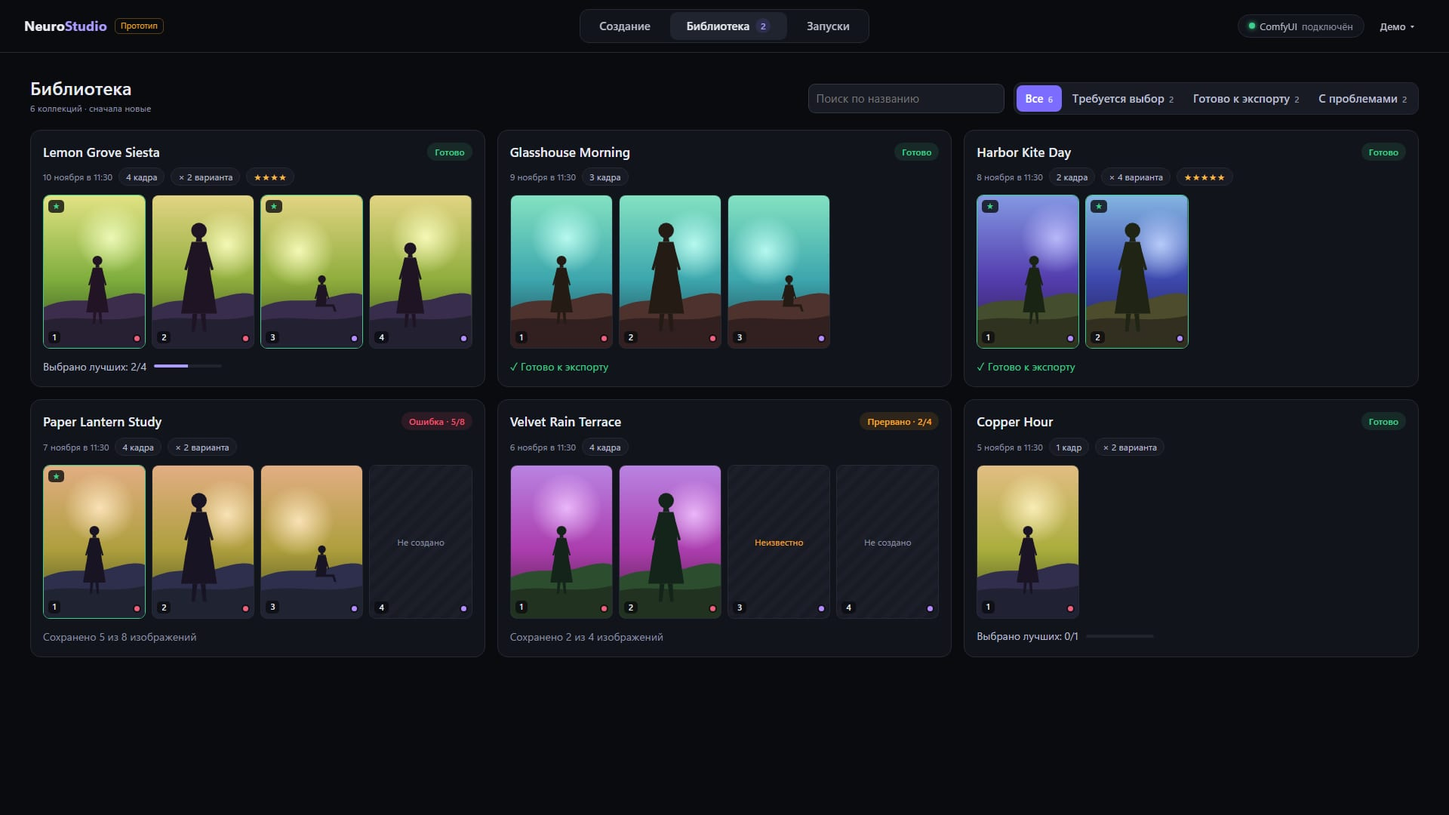
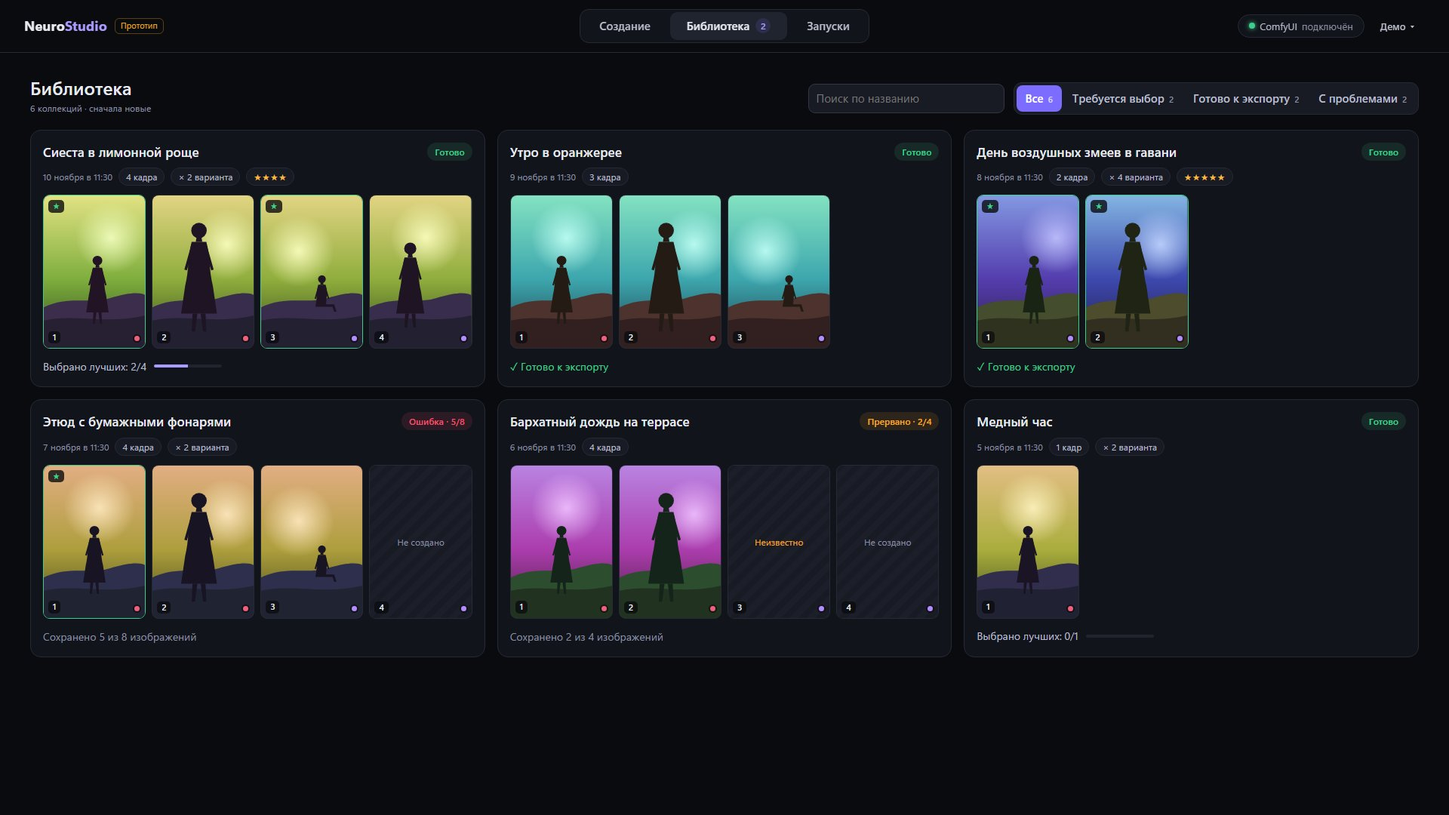
NS-013: Russian mock data, metadata-language and error-code decisions, refreshed screenshots

diff --git a/web/prototype/src/mock.ts b/web/prototype/src/mock.ts
@@ -82,17 +82,17 @@ export function mockCollections(): ProtoCollection[] {
   return [
     makeCollection({
       id: "2026-11-10-lemon-grove-siesta",
-      title: "Lemon Grove Siesta",
-      description: "A slow Mediterranean afternoon between citrus trees, linen and sun-warmed stone.",
+      title: "Сиеста в лимонной роще",
+      description: "Неспешный средиземноморский день среди цитрусовых деревьев, льна и нагретого солнцем камня.",
       daysAgo: 0,
       hue: 42,
       frames: 4,
       variations: 2,
       summaries: [
-        "Walking between rows of lemon trees, basket on her arm, seen from eye level.",
-        "Sitting on a low stone wall, turning towards the light, waist-up.",
-        "Reclining on a striped blanket in dappled shade, seen slightly from above.",
-        "Leaning on a wooden gate at the end of the grove, full body, warm backlight.",
+        "Идёт между рядами лимонных деревьев с корзиной на руке, вид на уровне глаз.",
+        "Сидит на низкой каменной ограде, повернувшись к свету, по пояс.",
+        "Лежит на полосатом пледе в пятнистой тени, вид чуть сверху.",
+        "Опирается на деревянную калитку в конце рощи, в полный рост, тёплый контровой свет.",
       ],
       status: "done",
       selections: { "1": 2, "3": 1 },
@@ -103,50 +103,50 @@ export function mockCollections(): ProtoCollection[] {
     }),
     makeCollection({
       id: "2026-11-09-glasshouse-morning",
-      title: "Glasshouse Morning",
-      description: "Botanical glasshouse at opening hour; fogged panes, ferns and pale green light.",
+      title: "Утро в оранжерее",
+      description: "Ботаническая оранжерея в час открытия: запотевшие стёкла, папоротники и бледно-зелёный свет.",
       daysAgo: 1,
       hue: 150,
       frames: 3,
       variations: 1,
       summaries: [
-        "Standing among tall ferns, front three-quarter view, chest-up.",
-        "Kneeling by a potting table, hands in soil, side profile.",
-        "Walking down the central aisle away from the viewer, wide environmental composition.",
+        "Стоит среди высоких папоротников, ракурс три четверти спереди, по грудь.",
+        "Склонилась у стола для рассады, руки в земле, вид сбоку.",
+        "Идёт по центральному проходу от зрителя, широкий кадр с окружением.",
       ],
       status: "done",
       theme: null,
     }),
     makeCollection({
       id: "2026-11-08-harbor-kite-day",
-      title: "Harbor Kite Day",
-      description: "Windy seaside promenade, bright kites and salt air.",
+      title: "День воздушных змеев в гавани",
+      description: "Ветреная набережная, яркие воздушные змеи и солёный воздух.",
       daysAgo: 2,
       hue: 200,
       frames: 2,
       variations: 4,
       models: ["duskrose", "duskrose"],
-      summaries: ["Holding a kite string against a blue sky, low angle, full body.", "Laughing with wind in her hair, head and shoulders."],
+      summaries: ["Держит нить воздушного змея на фоне синего неба, низкий ракурс, в полный рост.", "Смеётся, ветер треплет волосы, голова и плечи."],
       status: "done",
       selections: { "1": 3, "2": 1 },
-      feedback: { rating: 5, tags: ["beautiful_heroine", "good_composition"], note: "Strong sky; v3 of scene 1 is the keeper." },
+      feedback: { rating: 5, tags: ["beautiful_heroine", "good_composition"], note: "Сильное небо; вариант 3 в кадре 1 — лучший." },
       theme: "ветреный день у моря",
       codex: [null, "medium"],
       composition: [{ viewpoint: "low_angle", framing: "full_body" }, { framing: "head_and_shoulders" }],
     }),
     makeCollection({
       id: "2026-11-07-paper-lantern-study",
-      title: "Paper Lantern Study",
-      description: "A calligraphy studio lit by paper lanterns at dusk.",
+      title: "Этюд с бумажными фонарями",
+      description: "Каллиграфическая студия в сумерках, освещённая бумажными фонарями.",
       daysAgo: 3,
       hue: 18,
       frames: 4,
       variations: 2,
       summaries: [
-        "Sitting at a low desk, brush in hand, seen from above.",
-        "Hanging a lantern, arms raised, rear three-quarter view.",
-        "Kneeling by an open screen door, garden behind her.",
-        "Standing in the doorway, silhouette against lantern light.",
+        "Сидит за низким столом с кистью в руке, вид сверху.",
+        "Вешает фонарь, руки подняты, ракурс три четверти сзади.",
+        "Опустилась на колени у открытой сёдзи, позади сад.",
+        "Стоит в дверном проёме, силуэт на фоне света фонарей.",
       ],
       status: "failed",
       states: ["done", "done", "done", "done", "done", "failed", "pending", "pending"],
@@ -156,30 +156,30 @@ export function mockCollections(): ProtoCollection[] {
     }),
     makeCollection({
       id: "2026-11-06-velvet-rain-terrace",
-      title: "Velvet Rain Terrace",
-      description: "Rooftop terrace during a warm summer rain, velvet dress and city haze.",
+      title: "Бархатный дождь на террасе",
+      description: "Терраса на крыше под тёплым летним дождём, бархатное платье и городская дымка.",
       daysAgo: 4,
       hue: 265,
       frames: 4,
       variations: 1,
       summaries: [
-        "Under a striped awning watching the rain, side profile.",
-        "Stepping into the rain with open palms, low angle.",
-        "Leaning on the wet railing, city behind, over-the-shoulder view.",
-        "Sitting on a bench with a towel around her shoulders.",
+        "Под полосатым навесом смотрит на дождь, вид сбоку.",
+        "Выходит под дождь с раскрытыми ладонями, низкий ракурс.",
+        "Опирается на мокрые перила, позади город, взгляд через плечо.",
+        "Сидит на скамье, плечи укутаны полотенцем.",
       ],
       status: "interrupted",
       states: ["done", "done", "timeout", "pending"],
     }),
     makeCollection({
       id: "2026-11-05-copper-hour",
-      title: "Copper Hour",
-      description: "One portrait in late copper sunlight on an old tram platform.",
+      title: "Медный час",
+      description: "Один портрет в медном свете позднего солнца на старой трамвайной платформе.",
       daysAgo: 5,
       hue: 28,
       frames: 1,
       variations: 2,
-      summaries: ["Waiting on the platform, face close-up, warm rim light."],
+      summaries: ["Ждёт на платформе, крупный план лица, тёплый контровой свет."],
       status: "done",
       theme: "один портрет, трамвайная платформа",
       codex: ["codex-model-b", "low"],

diff --git a/web/prototype/src/store.ts b/web/prototype/src/store.ts
@@ -131,7 +131,7 @@ export const run = reactive({
 
 export const running = computed(() => run.status === "planning" || run.status === "generating");
 
-const TITLES = ["Morning Ferry", "Orchard Ladder", "Blue Hour Laundry", "Salt Flat Picnic", "Library Ladder Noon", "Greenhouse Rain"];
+const TITLES = ["Утренний паром", "Лестница в саду", "Бельё в синий час", "Пикник на солончаке", "Полдень в библиотеке", "Дождь в теплице"];
 let timer: number | undefined;
 let titleOffset = 0;
 /** Demo presets fast-forward the simulation synchronously up to `stopAt` finished images. */
@@ -186,13 +186,13 @@ function beginCollection(i: number) {
   const c = makeCollection({
     id: `demo-${Date.now().toString(36)}-${i + 1}`,
     title: it.title,
-    description: "Demo collection from the simulated run (placeholder artwork).",
+    description: "Демо-коллекция из имитированного запуска (условные изображения).",
     daysAgo: 0,
     hue: (titleOffset * 47 + i * 83) % 360,
     frames: snap.frames,
     variations: snap.variations,
     models: snap.models,
-    summaries: Array.from({ length: snap.frames }, (_, k) => `Shot brief for scene ${k + 1} (demo).`),
+    summaries: Array.from({ length: snap.frames }, (_, k) => `Краткое описание кадра ${k + 1} (демо).`),
     status: "running",
     states: Array.from({ length: snap.frames * snap.variations }, () => "pending"),
     theme: snap.theme || null,

diff --git a/docs/ns-013-ux-design.md b/docs/ns-013-ux-design.md
@@ -30,7 +30,33 @@ Sections 1–14 were written before NS-013A and name UI elements in English; the
 - Технические id не меняются: интерфейс показывает «Сидя на стуле», в запрос уходит `sitting_on_a_chair` (`OPTION_RU` — справочник подписей поверх каталога `src/composition.ts`; тест проверяет, что у каждого id есть подпись). Теги оценки хранятся с теми же id, что в NS-010.
 - Не переводятся названия продуктов и моделей: NeuroStudio, Codex, ComfyUI, Crimson Oath, Duskrose; технические термины seed, prompt_id, PNG, ZIP.
 - Промпты для генерации остаются на английском (это сказано и в интерфейсе, в блоке «Генерация промптов»).
-- Тексты, которые генерирует Codex (название и описание концепции, краткие описания кадров), в прототипе остаются английскими, как в реальных данных. Нужно ли получать их на русском — открытый вопрос (раздел 14).
+- Демонстрационные данные прототипа (названия и описания коллекций, краткие описания кадров) написаны по-русски; технические id и имена моделей не менялись. Решение по метаданным реальных коллекций — см. «Язык метаданных Codex» ниже.
+
+### Язык метаданных Codex (решение, для NS-014)
+
+- Codex создаёт **английские positive prompts** (как сейчас).
+- Для интерфейса Codex дополнительно создаёт `titleRu`, `descriptionRu` и `summaryRu` (по одному `summaryRu` на кадр).
+- Оригинальный `title` сохраняется для совместимости; `description` и краткие описания кадров — тоже.
+- Русские метаданные создаются **в том же единственном вызове Codex на партию**. Отдельных запросов на перевод нет.
+- Старые коллекции без русских полей показывают исходные тексты.
+- Реальная схема Prompt Plan в NS-013 не менялась; поля добавляются в NS-014 (аддитивно, необязательные при чтении старых планов).
+
+### Ошибки (решение, для NS-014 / NS-015)
+
+- Сервер возвращает **стабильные коды ошибок** (например `COMFY_UNREACHABLE`, `COMFY_OUT_OF_MEMORY`, `CODEX_FAILED`, `PLAN_INVALID`, `EXPORT_INCOMPLETE`) и параметры.
+- Пользовательское сообщение на русском формирует UI по коду.
+- Технические подробности (исходный текст ошибки, CUDA, узел ComfyUI, prompt_id) доступны по раскрывающейся ссылке «Технические подробности» и показываются как есть.
+- Существующий API в NS-013 не менялся.
+
+### Утверждённые решения NS-013 (финальное согласование)
+
+1. Архитектура «Создание / Библиотека / Запуски».
+2. Только десктоп: 2560 × 1440 и 1920 × 1080.
+3. Русский интерфейс без переключателя языка.
+4. Auto Mix, Custom Per Scene, Composition Controls и текущая структура Advanced Settings.
+5. Два набора коллекций по умолчанию.
+6. Без Retry/Resume.
+7. Во время генерации форму можно редактировать, но текущая генерация использует снимок настроек на момент старта.
 
 ### Утверждённая терминология
 
@@ -62,7 +88,7 @@ Sections 1–14 were written before NS-013A and name UI elements in English; the
 ### Рекомендации для NS-014 / NS-015
 
 1. Перенести `ru.ts` (подписи, `ruPlural`, `ofImages`, форматирование дат) в `web/src` как есть; новые строки сразу писать по-русски. Тест полноты `OPTION_RU` сохранить: новая опция в каталоге без русской подписи должна ронять тесты.
-2. Сообщения сервера, которые видит пользователь (`exportStatus.message`, ошибки валидации, `RunError`, «ComfyUI is not reachable…»), сейчас английские. Рекомендация: сервер отдаёт код и параметры, русский текст формирует UI; технические детали (CUDA, имена узлов ComfyUI) показываются как есть.
+2. Сообщения сервера, которые видит пользователь (`exportStatus.message`, ошибки валидации, `RunError`, «ComfyUI is not reachable…»), сейчас английские. Решение: сервер отдаёт стабильный код и параметры, русский текст формирует UI, технические детали доступны отдельно (см. «Ошибки» выше).
 3. Не добавлять мобильные брейкпоинты; каждую новую страницу проверять на 2560 × 1440 и 1920 × 1080. Скриншоты для приёмки — headless Chrome на этих размерах; в прототипе для этого есть пресеты в URL: `#create`, `#advanced`, `#custom`, `#library`, `#collection`, `#activity-generating`, `#activity-failed`.
 4. При переносе экранов в рабочее приложение сохранить ограничения ширины (2240 / 1880 px), колонки библиотеки и минимальную ширину селектов 260 px.
 5. Промпты, схема Prompt Plan и Creative Director остаются на английском; русификация касается только интерфейса.
@@ -188,7 +214,7 @@ Rules:
 
 - **Current run card**: status title (Planning the batch / Generating images / Run completed / Run stopped), start time and the formula, `done / total`, overall bar, and four steps: *ComfyUI check → Planning with Codex (one call for all collections) → Generating images (collection i of n · scene s · vK) → Saved to Library*.
 - **Per-collection rows**: title (or "Concept is being written…" while planning), bar, `6/8`, state (Waiting, Generating, Saved, Stopped · partial, Not started), *Open* in Library.
-- **Failure**: the error, what was saved (`1 complete collection, plus 1 of 8 images of "Greenhouse Rain"`), and explicitly: *Nothing is resumed or resubmitted automatically. Review what was saved in the Library and start a new run when ready.* On ComfyUI loss: an accepted image may still finish in ComfyUI — see its prompt_id on the collection. There is no Retry/Resume button on purpose.
+- **Failure**: the error, what was saved (`1 complete collection, plus 1 of 8 images of "Дождь в теплице"`), and explicitly: *Nothing is resumed or resubmitted automatically. Review what was saved in the Library and start a new run when ready.* On ComfyUI loss: an accepted image may still finish in ComfyUI — see its prompt_id on the collection. There is no Retry/Resume button on purpose.
 - **Side**: ComfyUI status (connected/version/queue, or what to do when unreachable) and the run's settings snapshot (theme, models per scene, Codex, composition per scene).
 - **Recent runs**: status, theme, formula, error line, links to the collections the run produced. (Source in NS-014: `output/batches/*/batch-plan.json`, which already exists.)
 
@@ -239,8 +265,11 @@ Rules:
 6. **Runner / collection**: `FRAMES` from the request; manifest gets `frames` and per-frame model (already per frame); old manifests default to 4.
 7. **Library backend**: `chooseScenes`/`exportStatus`/selections/`selectBest` use the manifest frame count; add `frameCount` + generation metadata (`theme`, codex, composition, models) to `CollectionView`; add `GET /api/runs` from `batch-plan.json`.
 8. **Composition**: `SCENES` → request frame count; `parseComposition` accepts ≤ frames.
-9. **UI**: replace `web/src` views with the prototype structure (Create / Library / Activity, header pill), wire to the API; keep `localStorage` only for UI preferences (Codex choice as today, maybe last frames/mode).
-10. Tests: plan validation for 1–4 frames × modes, runner totals, export/selection with 1–3 frames, legacy 4-frame collections unchanged.
+9. **Metadata language**: one Codex call per batch also returns `titleRu`, `descriptionRu`, and per-frame `summaryRu` next to the English `title`/`description`/prompts (prompts stay English; `title` kept for compatibility). The UI prefers the `*Ru` fields and falls back to the original text for older collections. No separate translation requests.
+9a. **Errors**: stable server error codes + Russian user messages in the UI + access to technical details (no change to the API in NS-013).
+9b. **Settings snapshot**: a run uses the settings captured at start; later edits to the form do not affect it.
+10. **UI**: replace `web/src` views with the prototype structure (Create / Library / Activity, header pill), wire to the API; keep `localStorage` only for UI preferences (Codex choice as today, maybe last frames/mode).
+11. Tests: plan validation for 1–4 frames × modes, runner totals, export/selection with 1–3 frames, legacy 4-frame collections unchanged.
 
 ## 13. Decisions that need approval
 
@@ -264,12 +293,13 @@ Rules:
 - **Composition requests** for scenes > frames from older clients must be rejected or trimmed consistently.
 - **Third model.** Needs a checkpoint, workflow compatibility (same UNET loader node?), and a decision on its Auto Mix position. Checkpoint discovery stays out of scope.
 - **Run history.** `batch-plan.json` has no per-collection status beyond ids; Activity history may need `batch.status` per collection (small additive change).
-- **Generated text language.** Concept titles, descriptions and shot briefs come from Codex in English. Showing them in Russian would need an extra Russian field in the Prompt Plan (prompts themselves stay English) — decide before NS-014.
-- **Server messages.** Export, validation and run errors are English strings from the server today; see the NS-014/015 recommendation in section 0.
+- **Generated text language.** Решено: Codex отдаёт `titleRu`/`descriptionRu`/`summaryRu` в том же вызове (см. раздел 0).
+- **Server messages.** Export, validation and run errors are English strings from the server today; решено: стабильные коды + русские сообщения + технические подробности (раздел 0).
 
 ## 15. Verification (NS-013 + NS-013A)
 
 - `npm run typecheck` (root + `web` + `web/prototype`), `npm test` (57 tests incl. `tests/ns013-prototype.test.ts`: Auto Mix, Only/Custom, third model, Russian summary text and plural forms, completeness of Russian composition labels, N-frame export), `npm run build`, `npm run build:prototype` — all pass.
+- NS-013 final: mock data in Russian; decisions on metadata language and errors recorded (docs only, no schema/API changes).
 - No changes under `src/`, `server/`, `schemas/`, `prompts/`, `workflows/`, `web/src/`. Codex and ComfyUI were not started.
 - Checked in the browser at 2560 × 1440 and 1920 × 1080: frames 1–4, all model modes, custom selects, Advanced open/close (also via a scene card), global + per-scene composition (inherit/own chips, copy, reset), Codex model/effort, Summary, demo run, simulated error and ComfyUI disconnect, review presets, Library filters/search, detail Select Best, viewer (←/→, B on any keyboard layout, Esc), feedback, ZIP enable/disable. A scan of every state found no untranslated UI text (only product and technical names).
 
